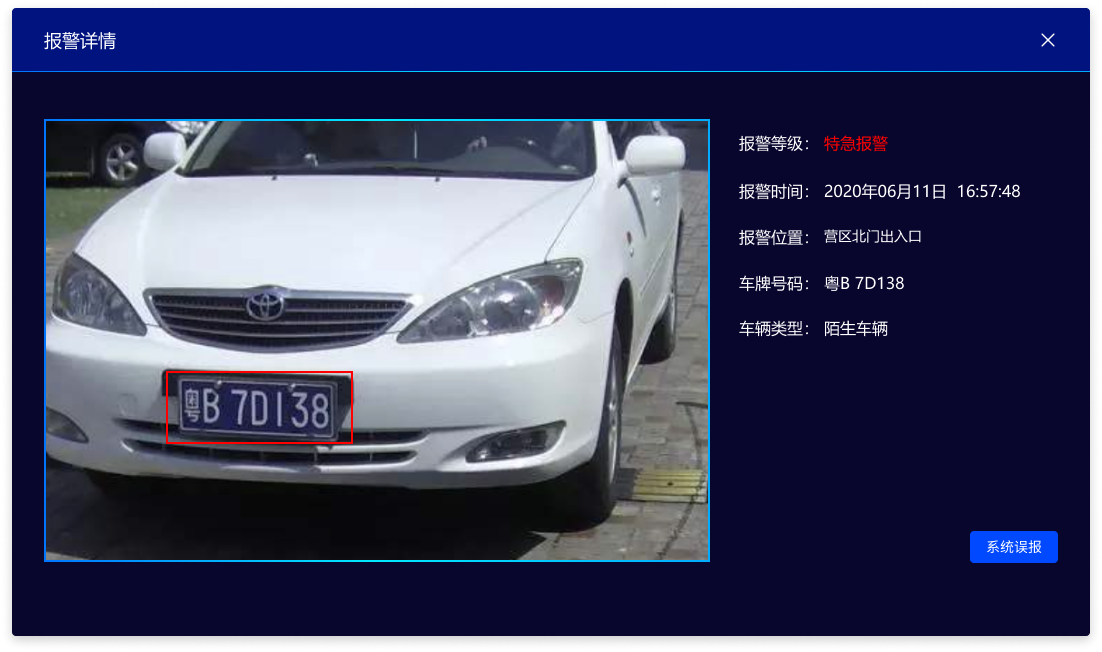
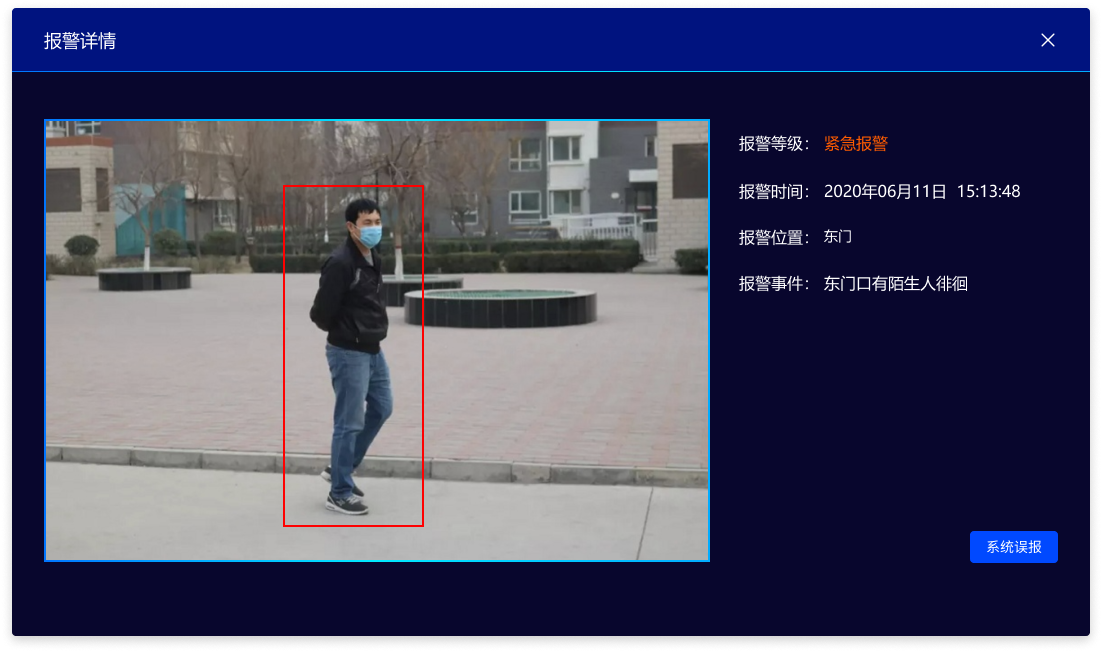
修改首页

diff --git a/src/views/campScreen.vue b/src/views/campScreen.vue
@@ -35,7 +35,7 @@
          </div>
          <div class="left_comprehensive_body" :class="[topClose?'close':'']">
            <div class="left_comprehensive_content" :class="[topClose?'close':'']"  @mouseenter="Stop()" @mouseleave="ScrollUp()" @scroll="paperScroll()">
-               <div class="detail" v-for="(item,index) in comprehensiveLists" :style="{ top:comprehensiveTop }" :key="index" @click="openCar(item.type)">
+               <div class="detail" v-for="(item,index) in comprehensiveLists" :style="{ top:comprehensiveTop }" :key="index" @click="openCar(item.pic)">
                  <div>【<span :style="{color:item.color}">{{item.name}}</span>】</div>
                  <div>{{item.time}}</div>
                  <div>{{item.work}}</div>
@@ -176,9 +176,18 @@
      </div>
      <div class="content_left_img" v-show="comprehensiveWindowShow">
        <div class="content_close" @click="comprehensiveWindowShow=false"></div>
-       <img src="@/assets/images/showCar.png" v-if="carType===2" />
-       <img src="@/assets/images/showCar1.png" v-if="carType===0"/>
-       <img src="@/assets/images/showCar2.png" v-if="carType===1" />
+       <img src="@/assets/images/showCar.png" v-if="carType===7" />
+       <img src="@/assets/images/showCar1.png" v-if="carType===10"/>
+       <img src="@/assets/images/showCar2.png" v-if="carType===2" />
+       <img src="@/assets/images/showCar3.png" v-if="carType===11" />
+       <img src="@/assets/images/showCar4.png" v-if="carType===5"/>
+       <img src="@/assets/images/showCar5.png" v-if="carType===0" />
+       <img src="@/assets/images/showCar6.png" v-if="carType===3" />
+       <img src="@/assets/images/showCar7.png" v-if="carType===8"/>
+       <img src="@/assets/images/showCar8.png" v-if="carType===9" />
+       <img src="@/assets/images/showCar9.png" v-if="carType===1" />
+       <img src="@/assets/images/showCar10.png" v-if="carType===4"/>
+       <img src="@/assets/images/showCar11.png" v-if="carType===6" />
      </div>
      <div class="content_left_close" :class="[leftClose?'close':'']"  @click="leftClose=!leftClose">
       <img src="@/assets/images/goleft.png" v-if="!leftClose">
@@ -291,39 +300,18 @@ export default {
       comprehensiveWindowShow: false,
       carType: null,
       comprehensiveList: [
-        { name: '人员出入', color: '#fff', time: '10.46', work: '北门进入访客章司', type: 3 },
-        { name: '普通报警', color: '#A06A1E', time: '10.48', work: '北门进入访客李维', type: 0 },
-        { name: '物资出入', color: '#fff', time: '11.00', work: '北门进入后勤物资', type: 5 },
-        { name: '特急报警', color: 'red', time: '11.30', work: '李维从北门进', type: 2 },
-        { name: '车辆出入', color: '#fff', time: '11.46', work: '北门进入车辆车牌号为：鄂B305F6', type: 4 },
-        { name: '紧急报警', color: '#C0450A', time: '11.53', work: '北门进入访客章司', type: 1 },
-        { name: '人员出入', color: '#fff', time: '11.59', work: '北门进入访客章司', type: 3 },
-        { name: '普通报警', color: '#A06A1E', time: '12.10', work: '北门进入访客李维', type: 0 },
-        { name: '物资出入', color: '#fff', time: '12.30', work: '北门进入后勤物资', type: 5 },
-        { name: '车辆出入', color: '#fff', time: '12.33', work: '北门进入车辆车牌号为：鄂B305F6', type: 4 },
-        { name: '紧急报警', color: '#C0450A', time: '12.46', work: '北门进入访客章司', type: 1 },
-
-        { name: '人员出入', color: '#fff', time: '12.59', work: '北门进入访客章司', type: 3 },
-        { name: '普通报警', color: '#A06A1E', time: '13.06', work: '北门进入访客李维', type: 0 },
-        { name: '物资出入', color: '#fff', time: '13.20', work: '北门进入后勤物资', type: 5 },
-        { name: '车辆出入', color: '#fff', time: '13.49', work: '北门进入车辆车牌号为：鄂B305F6', type: 4 },
-        { name: '紧急报警', color: '#C0450A', time: '14.01', work: '北门进入访客章司', type: 1 },
-        { name: '人员出入', color: '#fff', time: '14.59', work: '北门进入访客章司', type: 3 },
-        { name: '普通报警', color: '#A06A1E', time: '15.10', work: '北门进入访客李维', type: 0 },
-        { name: '物资出入', color: '#fff', time: '15.31', work: '北门进入后勤物资', type: 5 },
-        { name: '车辆出入', color: '#fff', time: '15.49', work: '北门进入车辆车牌号为：鄂B305F6', type: 4 },
-        { name: '紧急报警', color: '#C0450A', time: '15.58', work: '北门进入访客章司', type: 1 },
-
-        { name: '人员出入', color: '#fff', time: '16.09', work: '北门进入访客章司', type: 3 },
-        { name: '普通报警', color: '#A06A1E', time: '16.36', work: '北门进入访客李维', type: 0 },
-        { name: '物资出入', color: '#fff', time: '16.40', work: '北门进入后勤物资', type: 5 },
-        { name: '车辆出入', color: '#fff', time: '17.06', work: '北门进入车辆车牌号为：鄂B305F6', type: 4 },
-        { name: '紧急报警', color: '#C0450A', time: '17.13', work: '北门进入访客章司', type: 1 },
-        { name: '人员出入', color: '#fff', time: '17.29', work: '北门进入访客章司', type: 3 },
-        { name: '普通报警', color: '#A06A1E', time: '18.10', work: '北门进入访客李维', type: 0 },
-        { name: '物资出入', color: '#fff', time: '19.31', work: '北门进入后勤物资', type: 5 },
-        { name: '车辆出入', color: '#fff', time: '20.49', work: '北门进入车辆车牌号为：鄂B305F6', type: 4 },
-        { name: '紧急报警', color: '#C0450A', time: '21.08', work: '北门进入访客章司', type: 1 }
+        { name: '人员出入', color: '#fff', time: '14:23', work: '东门进入内部人员王悦', type: 3, pic: 0 },
+        { name: '车辆出入', color: '#fff', time: '14:25', work: '北门进入访客车辆冀AQA644', type: 4, pic: 1 },
+        { name: '普通报警', color: '#A06A1E', time: '14:32', work: '配电室设备03出现故障', type: 0, pic: 2 },
+        { name: '人员出入', color: '#fff', time: '14:34', work: '北门进入军人刘亚东', type: 3, pic: 3 },
+        { name: '车辆出入', color: '#fff', time: '14:54', work: '西门进入内部车辆京NP4323', type: 4, pic: 4 },
+        { name: '普通报警', color: '#A06A1E', time: '14:55', work: '公区0322号摄像头被遮挡', type: 0, pic: 5 },
+        { name: '紧急报警', color: '#C0450A', time: '15:10', work: '仓库A物资摆放有误', type: 1, pic: 6 },
+        { name: '紧急报警', color: '#C0450A', time: '15:13', work: '东门口有陌生人徘徊', type: 1, pic: 7 },
+        { name: '物资出入', color: '#fff', time: '15:42', work: '北门进入一批物资，编号0332721', type: 5, pic: 8 },
+        { name: '物资出入', color: '#fff', time: '15:43', work: '北门进入一批物资，编号7183300', type: 5, pic: 9 },
+        { name: '特急报警', color: 'red', time: '15:52', work: '东侧周界遭到入侵', type: 2, pic: 10 },
+        { name: '特急报警', color: 'red', time: '16:44', work: '枪弹仓库物资摆放不合格', type: 2, pic: 11 }
       ],
       comprehensiveLists: [],
       rightPic: -1, // 右边图片切换
@@ -557,7 +545,7 @@ export default {
     },
     ScrollUp () {
       this.intnum = setInterval(_ => {
-        if (this.activeIndex < this.comprehensiveList.length) {
+        if (this.activeIndex < this.comprehensiveLists.length) {
           this.activeIndex += 1
         } else {
           this.activeIndex = 0
@@ -617,11 +605,6 @@ export default {
     },
     videoCloseShow () {
       this.videoShow = false
-      setTimeout(() => {
-        this.rightClose = false
-        this.bottomClose = false
-        this.leftClose = false
-      }, 500)
     },
     checkTrueOrFalse (type) {
       if (type === 0) {
@@ -644,9 +627,9 @@ export default {
       }
       this.checkAllShow = !!(this.sentryShow && this.cameraShow && this.sensorShow && this.gateShow && this.essentialShow)
     },
-    openCar (type) {
+    openCar (pic) {
       this.comprehensiveWindowShow = true
-      this.carType = type
+      this.carType = pic
     }
   },
 

diff --git a/src/components/map/mapa.vue b/src/components/map/mapa.vue
@@ -44,6 +44,7 @@ export default {
       searchInput: '',
       upClose: false,
       bottomClose: false,
+      showMovie: true,
       layers: [
         // 卫星
         new AMap.TileLayer.Satellite(),
@@ -115,6 +116,7 @@ export default {
                 })
                 this.curTk = item
               }
+              this.showMovie = false
             } else {
               this.curTKMarker = new AMap.Marker({
                 map: this.map,
@@ -122,6 +124,7 @@ export default {
                 icon: item.tkImg
               })
               this.curTk = item
+              this.showMovie = true
             }
 
             if (this.curTKMarker && item.type != 0) {
@@ -129,6 +132,10 @@ export default {
                 this.clickNum++
                 this.curTKMarker.setIcon(this.clickNum % 2 ? item.tkImgDetail : item.tkImg)
               })
+            }
+            if (item.type === 2 && this.showMovie) {
+              console.log(this.showMovie)
+              this.$parent.videoShow = true
             }
           })
         }
